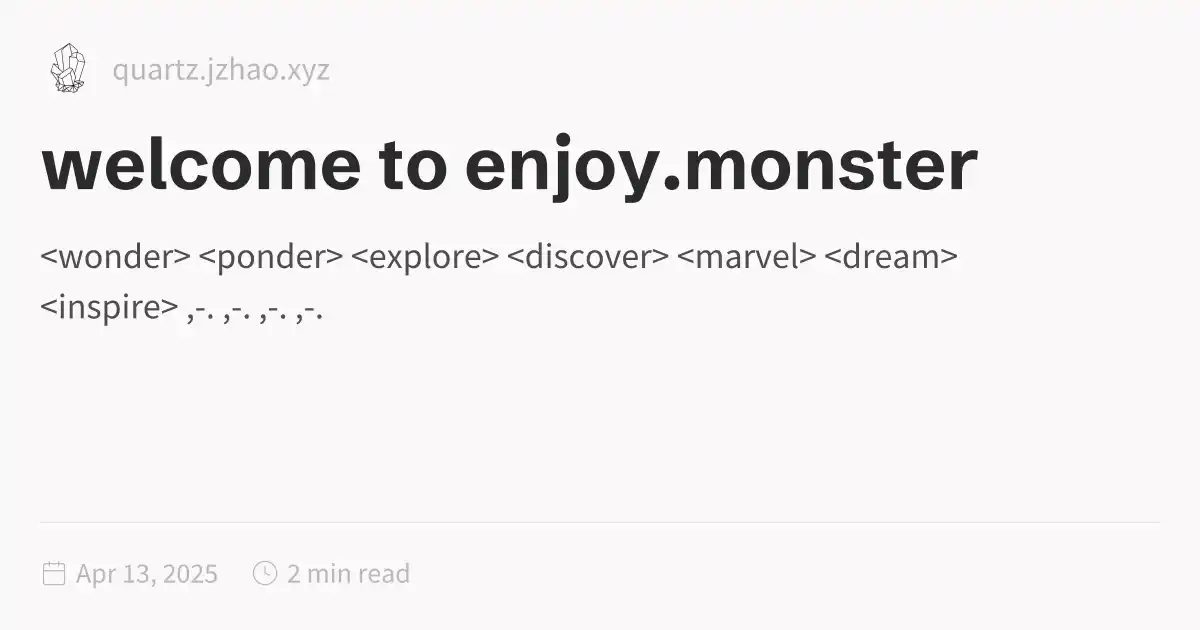
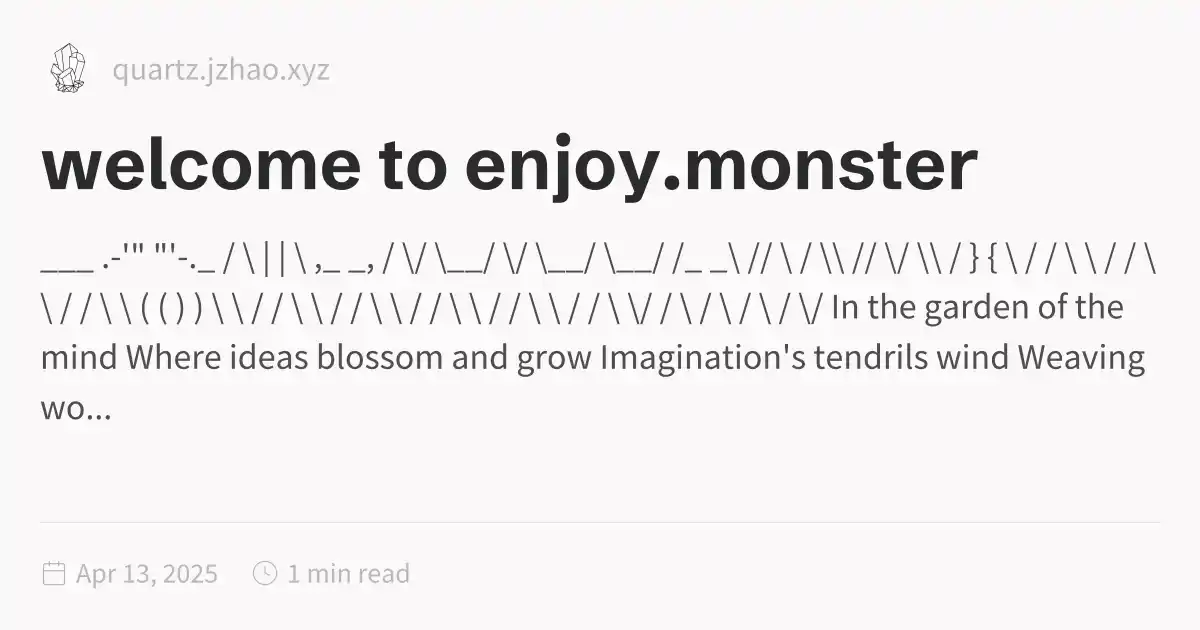
Deploying to gh-pages from @ doomdagadiggiedahdah/blog@e20f557e7281b2dbd28ca909fad1f5e4a5c5e70a 🚀

Changed region(s): [[0.0308, 0.3921, 0.9558, 0.5127], [0.0308, 0.5429, 0.9558, 0.6032], [0.0308, 0.6333, 0.0925, 0.6635]]

diff --git a/index.html b/index.html
@@ -1,5 +1,5 @@
 <!DOCTYPE html>
-<html lang="en"><head><title>welcome to enjoy.monster</title><meta charset="utf-8"/><link rel="preconnect" href="https://fonts.googleapis.com"/><link rel="preconnect" href="https://fonts.gstatic.com"/><link rel="stylesheet" href="https://fonts.googleapis.com/css2?family=Schibsted Grotesk:wght@400;700&amp;family=Source Sans Pro:ital,wght@0,400;0,600;1,400;1,600&amp;family=IBM Plex Mono:wght@400;600&amp;display=swap"/><link rel="preconnect" href="https://cdnjs.cloudflare.com" crossorigin="anonymous"/><meta name="viewport" content="width=device-width, initial-scale=1.0"/><meta name="og:site_name" content="Quartz 4"/><meta property="og:title" content="welcome to enjoy.monster"/><meta property="og:type" content="website"/><meta name="twitter:card" content="summary_large_image"/><meta name="twitter:title" content="welcome to enjoy.monster"/><meta name="twitter:description" content="&lt;wonder> &lt;ponder> &lt;explore> &lt;discover> &lt;marvel> &lt;dream> &lt;inspire> ,-. ,-. ,-. ,-."/><meta property="og:description" content="&lt;wonder> &lt;ponder> &lt;explore> &lt;discover> &lt;marvel> &lt;dream> &lt;inspire> ,-. ,-. ,-. ,-."/><meta property="og:image:alt" content="&lt;wonder> &lt;ponder> &lt;explore> &lt;discover> &lt;marvel> &lt;dream> &lt;inspire> ,-. ,-. ,-. ,-."/><meta property="twitter:domain" content="quartz.jzhao.xyz"/><meta property="og:url" content="https://quartz.jzhao.xyz/index"/><meta property="twitter:url" content="https://quartz.jzhao.xyz/index"/><link rel="icon" href="./static/icon.png"/><meta name="description" content="&lt;wonder> &lt;ponder> &lt;explore> &lt;discover> &lt;marvel> &lt;dream> &lt;inspire> ,-. ,-. ,-. ,-."/><meta name="generator" content="Quartz"/><link href="./index.css" rel="stylesheet" type="text/css" spa-preserve/><style>.expand-button {
+<html lang="en"><head><title>welcome to enjoy.monster</title><meta charset="utf-8"/><link rel="preconnect" href="https://fonts.googleapis.com"/><link rel="preconnect" href="https://fonts.gstatic.com"/><link rel="stylesheet" href="https://fonts.googleapis.com/css2?family=Schibsted Grotesk:wght@400;700&amp;family=Source Sans Pro:ital,wght@0,400;0,600;1,400;1,600&amp;family=IBM Plex Mono:wght@400;600&amp;display=swap"/><link rel="preconnect" href="https://cdnjs.cloudflare.com" crossorigin="anonymous"/><meta name="viewport" content="width=device-width, initial-scale=1.0"/><meta name="og:site_name" content="Quartz 4"/><meta property="og:title" content="welcome to enjoy.monster"/><meta property="og:type" content="website"/><meta name="twitter:card" content="summary_large_image"/><meta name="twitter:title" content="welcome to enjoy.monster"/><meta name="twitter:description" content="___ .-'&quot; &quot;'-._ / \ | | \ ,_ _, / \/ \__/ \/ \__/ \__/ /_ _\ // \ / \\ // \/ \\ / } { \ / / \ \ / / \ \ / / \ \ ( ( ) ) \ \ / / \ \ / / \ \ / / \ \ / / \ \ / / \ \/ / \ / \ / \ / \/ In the garden of the mind Where ideas blossom and grow Imagination's tendrils wind Weaving wo..."/><meta property="og:description" content="___ .-'&quot; &quot;'-._ / \ | | \ ,_ _, / \/ \__/ \/ \__/ \__/ /_ _\ // \ / \\ // \/ \\ / } { \ / / \ \ / / \ \ / / \ \ ( ( ) ) \ \ / / \ \ / / \ \ / / \ \ / / \ \ / / \ \/ / \ / \ / \ / \/ In the garden of the mind Where ideas blossom and grow Imagination's tendrils wind Weaving wo..."/><meta property="og:image:alt" content="___ .-'&quot; &quot;'-._ / \ | | \ ,_ _, / \/ \__/ \/ \__/ \__/ /_ _\ // \ / \\ // \/ \\ / } { \ / / \ \ / / \ \ / / \ \ ( ( ) ) \ \ / / \ \ / / \ \ / / \ \ / / \ \ / / \ \/ / \ / \ / \ / \/ In the garden of the mind Where ideas blossom and grow Imagination's tendrils wind Weaving wo..."/><meta property="twitter:domain" content="quartz.jzhao.xyz"/><meta property="og:url" content="https://quartz.jzhao.xyz/index"/><meta property="twitter:url" content="https://quartz.jzhao.xyz/index"/><link rel="icon" href="./static/icon.png"/><meta name="description" content="___ .-'&quot; &quot;'-._ / \ | | \ ,_ _, / \/ \__/ \/ \__/ \__/ /_ _\ // \ / \\ // \/ \\ / } { \ / / \ \ / / \ \ / / \ \ ( ( ) ) \ \ / / \ \ / / \ \ / / \ \ / / \ \ / / \ \/ / \ / \ / \ / \/ In the garden of the mind Where ideas blossom and grow Imagination's tendrils wind Weaving wo..."/><meta name="generator" content="Quartz"/><link href="./index.css" rel="stylesheet" type="text/css" spa-preserve/><style>.expand-button {
   position: absolute;
   display: flex;
   float: right;
@@ -116,62 +116,51 @@ pre:hover > .expand-button {
   padding: 0 12px;
   font-size: 14px;
 }
[1 lines of base64/hex data omitted]
-  &lt;ponder>
-    &lt;explore>
-      &lt;discover>
-        &lt;marvel>
-          &lt;dream>
-            &lt;inspire>
[1 lines of base64/hex data omitted]
+        .-'&quot;   &quot;'-._
+       /             \
+      |               |
+       \  ,_    _,   /
+        \/  \__/  \/
+         \__/  \__/
+          /_    _\
+         // \  / \\
+        //   \/   \\
+       /   }    {   \
+      /   /      \   \
+     /   /        \   \
+    /   /          \   \
+   (   (            )   )
+    \   \          /   /
+     \   \        /   /
+      \   \      /   /
+       \   \    /   /
+        \   \  /   /
+         \   \/   /
+          \      /
+           \    /
+            \  /
+             \/
 
-       ,-.      ,-.      ,-.      ,-.
-      /   \    /   \    /   \    /   \
-     |     |  |     |  |     |  |     |
-      \   /    \   /    \   /    \   /
-       `-'      `-'      `-'      `-'
+       In the garden of the mind
+     Where ideas blossom and grow
+    Imagination's tendrils wind  
+       Weaving wonder's gentle glow
 
-In the tapestry of existence, we find
-Threads of joy and sorrow intertwined  
-  Each a brush stroke in the grand design
-    Painting a picture, yours and mine
+  Each petal a prismatic thought unfurled
+     Refracting light in myriad hues   
+  Fragrant fancies drift across the world
+     As inspiration's nectar imbues
 
-      .''.      .        *''*    :_\/_:     . 
-     :_\/_:   _\(/_  .:.*_\/_*   : /\ :  .'.:.'.
-     .'/\ : :&quot;/()&quot;\  ':'* /\ *  : '..'.  -=:o:=-
-    :'..'  :&quot;&quot;/ \ \&quot;&quot;  :&quot;&quot;*&quot;.*'&quot; '. '--.':_:/
-    '. ':  '/&quot;&quot;*&quot;&quot;\&quot;&quot; .&quot;&quot;\&quot;&quot; .&quot;\&quot;\&quot;\  '. ' _:&quot;&quot;\.
-     ':'. .&quot;\.'/&quot;\.&quot;&quot; /.&quot;&quot;' .&quot;' ' '&quot;: : :  &quot;&quot; :
-       '. :.  :  :  ' : :.' &quot;&quot; .'*&quot;  '. '. &quot;&quot;  :
-        '*'.'.  :  ' .'  &quot;&quot;   .'&quot;&quot;     '. '.:.'
+        The seeds of creativity 
+       Borne upon a wistful breeze
+        Find fertile soil and cavity
+       In which to sprout with ease
 
-    In moments of darkness, seek the light
-      A glimmer of hope, a star so bright
-    Guiding us onward through the night  
-      To a new dawn, a future in sight
-
-            ,-&quot;&quot;-.
-           / .--. \
-          / /    \ \
-          | |    | |
-          | |.-&quot;&quot;-.|
-         ///`.::::.`\
-        ||| ::/  \:: ;
-        ||; ::\__/:: ;
-         \\\ '::::' /
-     jgs  `=':-..-'`
-
-    Life's rich tapestry, woven with care
-      A masterpiece beyond compare   
-    Crafted by the hands of fate so fair
-      In each thread, beauty lies there
-
-            &lt;/inspire>
-          &lt;/dream>
-        &lt;/marvel>  
-      &lt;/discover>
-    &lt;/explore>
-  &lt;/ponder>
-&lt;/wonder>
+     Cultivate this plot with care  
+       And diligence, day by day
+     Until insight's blooms appear
+       Revealing wisdom's bouquet
 </code></pre></article><hr/><div class="page-footer"></div></div><div class="right sidebar"><div class="graph"><h3>Graph View</h3><div class="graph-outer"><div class="graph-container" data-cfg="{&quot;drag&quot;:true,&quot;zoom&quot;:true,&quot;depth&quot;:1,&quot;scale&quot;:1.1,&quot;repelForce&quot;:0.5,&quot;centerForce&quot;:0.3,&quot;linkDistance&quot;:30,&quot;fontSize&quot;:0.6,&quot;opacityScale&quot;:1,&quot;showTags&quot;:true,&quot;removeTags&quot;:[],&quot;focusOnHover&quot;:false,&quot;enableRadial&quot;:false}"></div><button class="global-graph-icon" aria-label="Global Graph"><svg version="1.1" xmlns="http://www.w3.org/2000/svg" xmlns:xlink="http://www.w3.org/1999/xlink" x="0px" y="0px" viewBox="0 0 55 55" fill="currentColor" xml:space="preserve"><path d="M49,0c-3.309,0-6,2.691-6,6c0,1.035,0.263,2.009,0.726,2.86l-9.829,9.829C32.542,17.634,30.846,17,29,17
                 s-3.542,0.634-4.898,1.688l-7.669-7.669C16.785,10.424,17,9.74,17,9c0-2.206-1.794-4-4-4S9,6.794,9,9s1.794,4,4,4
                 c0.74,0,1.424-0.215,2.019-0.567l7.669,7.669C21.634,21.458,21,23.154,21,25s0.634,3.542,1.688,4.897L10.024,42.562

diff --git a/blog/index.html b/blog/index.html
@@ -116,6 +116,6 @@ pre:hover > .expand-button {
   padding: 0 12px;
   font-size: 14px;
 }
[2 lines of base64/hex data omitted]
 </script><script type="module">function f(i,e){if(!i)return;function r(o){o.target===this&&(o.preventDefault(),o.stopPropagation(),e())}function t(o){o.key.startsWith("Esc")&&(o.preventDefault(),e())}i?.addEventListener("click",r),window.addCleanup(()=>i?.removeEventListener("click",r)),document.addEventListener("keydown",t),window.addCleanup(()=>document.removeEventListener("keydown",t))}function y(i){for(;i.firstChild;)i.removeChild(i.firstChild)}var h=class{constructor(e,r){this.container=e;this.content=r;this.setupEventListeners(),this.setupNavigationControls(),this.resetTransform()}isDragging=!1;startPan={x:0,y:0};currentPan={x:0,y:0};scale=1;MIN_SCALE=.5;MAX_SCALE=3;cleanups=[];setupEventListeners(){let e=this.onMouseDown.bind(this),r=this.onMouseMove.bind(this),t=this.onMouseUp.bind(this),o=this.resetTransform.bind(this);this.container.addEventListener("mousedown",e),document.addEventListener("mousemove",r),document.addEventListener("mouseup",t),window.addEventListener("resize",o),this.cleanups.push(()=>this.container.removeEventListener("mousedown",e),()=>document.removeEventListener("mousemove",r),()=>document.removeEventListener("mouseup",t),()=>window.removeEventListener("resize",o))}cleanup(){for(let e of this.cleanups)e()}setupNavigationControls(){let e=document.createElement("div");e.className="mermaid-controls";let r=this.createButton("+",()=>this.zoom(.1)),t=this.createButton("-",()=>this.zoom(-.1)),o=this.createButton("Reset",()=>this.resetTransform());e.appendChild(t),e.appendChild(o),e.appendChild(r),this.container.appendChild(e)}createButton(e,r){let t=document.createElement("button");return t.textContent=e,t.className="mermaid-control-button",t.addEventListener("click",r),window.addCleanup(()=>t.removeEventListener("click",r)),t}onMouseDown(e){e.button===0&&(this.isDragging=!0,this.startPan={x:e.clientX-this.currentPan.x,y:e.clientY-this.currentPan.y},this.container.style.cursor="grabbing")}onMouseMove(e){this.isDragging&&(e.preventDefault(),this.currentPan={x:e.clientX-this.startPan.x,y:e.clientY-this.startPan.y},this.updateTransform())}onMouseUp(){this.isDragging=!1,this.container.style.cursor="grab"}zoom(e){let r=Math.min(Math.max(this.scale+e,this.MIN_SCALE),this.MAX_SCALE),t=this.content.getBoundingClientRect(),o=t.width/2,n=t.height/2,c=r-this.scale;this.currentPan.x-=o*c,this.currentPan.y-=n*c,this.scale=r,this.updateTransform()}updateTransform(){this.content.style.transform=`translate(${this.currentPan.x}px, ${this.currentPan.y}px) scale(${this.scale})`}resetTransform(){this.scale=1;let e=this.content.querySelector("svg");this.currentPan={x:e.getBoundingClientRect().width/2,y:e.getBoundingClientRect().height/2},this.updateTransform()}},C=["--secondary","--tertiary","--gray","--light","--lightgray","--highlight","--dark","--darkgray","--codeFont"],E;document.addEventListener("nav",async()=>{let e=document.querySelector(".center").querySelectorAll("code.mermaid");if(e.length===0)return;E||=await import("https://cdnjs.cloudflare.com/ajax/libs/mermaid/11.4.0/mermaid.esm.min.mjs");let r=E.default,t=new WeakMap;for(let n of e)t.set(n,n.innerText);async function o(){for(let s of e){s.removeAttribute("data-processed");let a=t.get(s);a&&(s.innerHTML=a)}let n=C.reduce((s,a)=>(s[a]=window.getComputedStyle(document.documentElement).getPropertyValue(a),s),{}),c=document.documentElement.getAttribute("saved-theme")==="dark";r.initialize({startOnLoad:!1,securityLevel:"loose",theme:c?"dark":"base",themeVariables:{fontFamily:n["--codeFont"],primaryColor:n["--light"],primaryTextColor:n["--darkgray"],primaryBorderColor:n["--tertiary"],lineColor:n["--darkgray"],secondaryColor:n["--secondary"],tertiaryColor:n["--tertiary"],clusterBkg:n["--light"],edgeLabelBackground:n["--highlight"]}}),await r.run({nodes:e})}await o(),document.addEventListener("themechange",o),window.addCleanup(()=>document.removeEventListener("themechange",o));for(let n=0;n<e.length;n++){let v=function(){let g=l.querySelector("#mermaid-space"),m=l.querySelector(".mermaid-content");if(!m)return;y(m);let w=c.querySelector("svg").cloneNode(!0);m.appendChild(w),l.classList.add("active"),g.style.cursor="grab",u=new h(g,m)},M=function(){l.classList.remove("active"),u?.cleanup(),u=null},c=e[n],s=c.parentElement,a=s.querySelector(".clipboard-button"),d=s.querySelector(".expand-button"),p=window.getComputedStyle(a),L=a.offsetWidth+parseFloat(p.marginLeft||"0")+parseFloat(p.marginRight||"0");d.style.right=`calc(${L}px + 0.3rem)`,s.prepend(d);let l=s.querySelector("#mermaid-container");if(!l)return;let u=null;d.addEventListener("click",v),f(l,M),window.addCleanup(()=>{u?.cleanup(),d.removeEventListener("click",v)})}});
 </script><script src="https://cdn.jsdelivr.net/npm/katex@0.16.11/dist/contrib/copy-tex.min.js" type="application/javascript"></script><script src="../postscript.js" type="module"></script></html>

diff --git a/blog/master-as-the-needle.html b/blog/master-as-the-needle.html
@@ -116,7 +116,7 @@ pre:hover > .expand-button {
   padding: 0 12px;
   font-size: 14px;
 }
[2 lines of base64/hex data omitted]
 <ul>
 <li>
 <p>“Tell me and I’ll forget, show me I’ll remember, involve me and I’ll understand.”</p>

diff --git a/blog/quartz---working-notes.html b/blog/quartz---working-notes.html
@@ -116,7 +116,7 @@ pre:hover > .expand-button {
   padding: 0 12px;
   font-size: 14px;
 }
[2 lines of base64/hex data omitted]
 <ul>
 <li>revamp my dang blog</li>
 </ul>
